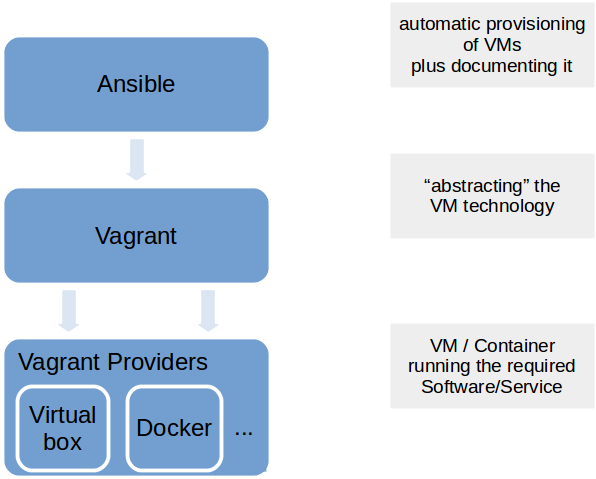
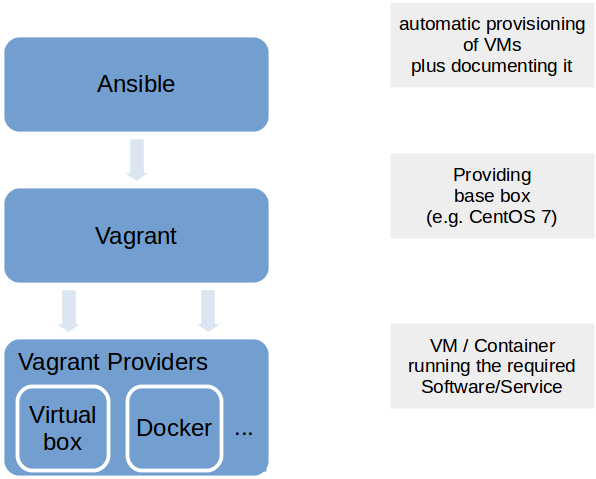
Added content

Changed region(s): [[0.6946, 0.3507, 0.9362, 0.4676]]

diff --git a/index.html b/index.html
@@ -4,7 +4,7 @@
 		<meta charset="utf-8">
 		<meta name="viewport" content="width=device-width, initial-scale=1.0, maximum-scale=1.0, user-scalable=no">
 
-		<title>reveal.js</title>
+		<title>AAT - Dev VMs</title>
 
 		<link rel="stylesheet" href="css/reveal.css">
 		<link rel="stylesheet" href="css/theme/league.css">
@@ -102,11 +102,193 @@
 					<section>
 						<h2>How does it work?</h2>
 						<ul>
-							<li>blabl</li>
+							<li>. . .</li>
 						</ul>
 					</section>
-				</section>							
-				
+				</section>
+				<section>
+					<section data-transition="fade-out">
+						<h2>Vagrantfile</h2>
+						<pre><code data-trim data-noescape>
+							Vagrant.configure(2) do |config|
+
+							  config.vm.box = "centos/7"
+
+							  config.vm.define "sibad.dev" do |srv|
+								srv.vm.hostname = "sibad.dev"
+								srv.vm.network "private_network", type: "dhcp"
+							  end
+
+							  config.vm.provision "ansible" do |ansible|
+								ansible.playbook = "dev.yml"
+							  end
+
+							end
+						</code></pre>
+					</section>
+					<section data-transition="fade-in fade-out">
+						<h2>Vagrantfile - box</h2>
+						<pre><code data-trim data-noescape>
+							Vagrant.configure(2) do |config|
+
+							 <mark>config.vm.box = "centos/7"</mark>
+
+							  config.vm.define "sibad.dev" do |srv|
+								srv.vm.hostname = "sibad.dev"
+								srv.vm.network "private_network", type: "dhcp"
+							  end
+
+							  config.vm.provision "ansible" do |ansible|
+								ansible.playbook = "dev.yml"
+							  end
+
+							end
+						</code></pre>
+					</section>
+					<section data-transition="fade-in fade-out">
+						<h2>Vagrantfile - Ansible provisioner</h2>
+						<pre><code data-trim data-noescape>
+							Vagrant.configure(2) do |config|
+
+							  config.vm.box = "centos/7"
+
+							  config.vm.define "sibad.dev" do |srv|
+								srv.vm.hostname = "sibad.dev"
+								srv.vm.network "private_network", type: "dhcp"
+							  end
+
+							  <mark>config.vm.provision "ansible" do |ansible|</mark>
+								<mark>ansible.playbook = "dev.yml"</mark>
+							  <mark>end</mark>
+
+							end
+						</code></pre>
+					</section>
+					<section data-transition="fade-in fade-out">
+						<h2>Vagrantfile - Port forward / RAM</h2>
+						<pre><code data-trim data-noescape>
+							Vagrant.configure(2) do |config|
+
+							  config.vm.box = "centos/7"
+							  config.ssh.insert_key = false
+							  config.vm.synced_folder ".", "/vagrant", disabled: true
+							  <mark>config.vm.network "forwarded_port", guest: 8080, host: 8080</mark>
+
+							  config.vm.provider :virtualbox do |v|
+								<mark>v.memory = 2048</mark>
+							  end
+
+							  . . .
+
+						</code></pre>
+					</section>
+				</section>
+
+				<section>
+					<section data-transition="fade-out">
+						<h2>Ansible - dev.yml</h2>
+						<pre><code data-trim data-noescape>
+							---
+
+							- hosts: dev_nodes
+							  become: true
+							  roles:
+							  - centos_gui
+							  - create_user
+						</code></pre>
+					</section>
+					<section data-transition="fade-in fade-out">
+						<h2>Ansible role "centos_gui"</h2>
+						<h3>tasks/main.yml</h3>
+						<pre><code data-trim data-noescape>
+							---
+							# install the necessary packages for a GUI
+
+							- name: Install x windows system
+							  yum:
+								name: "@X Window System"
+								state: present
+
+							- name: Install GNOME Shell classic mode
+							  yum:
+								name: gnome-classic-session
+								state: present
+						</code></pre>
+					</section>
+					<section data-transition="fade-in fade-out">
+						<h2>Ansible role "centos_gui"</h2>
+						<h3>handlers/main.yml</h3>
+						<pre><code data-trim data-noescape>
+							---
+							# handlers for restarting the VM
+
+							- name: Restart server
+							  shell: sleep 2 && shutdown -r now "Reboot by Ansible"
+							  async: 1
+							  poll: 0
+							  ignore_errors: true
+
+							- name: Wait for server to restart
+							  wait_for:
+								host={{ inventory_hostname }}
+								port=22
+								state=started
+								. . .
+						</code></pre>
+					</section>
+					<section data-transition="fade-in fade-out">
+						<h2>Ansible role "create_user"</h2>
+						<h3>tasks/main.yml</h3>
+						<pre><code data-trim data-noescape>
+							---
+							# tasks file for create_user
+
+							- name: add user
+							  user:
+								name: "{{ create_user_name }}"
+								group: vagrant
+								home: "/home/{{ create_user_name }}"
+								state: present
+							  register: newuser
+
+							- name: set password for user (only on creation)
+							  shell: "echo {{ create_user_password }}
+									| passwd --stdin {{ create_user_name }}"
+							  when: newuser.changed
+						</code></pre>
+					</section>
+				</section>
+
+				<section>
+					<section>
+						<h2>Create environment</h2>
+						<h3>vagrant up</h3>
+						<img src="images/vagrant-up.png"  width="1324">
+					</section>
+					<section>
+						<h2>Changes on environment</h2>
+						<h3>vagrant provision</h3>
+						<img src="images/vagrant-provision.png"  width="1124">
+					</section>
+					<section>
+						<h2>Dev environment - Login</h2>
+						<img src="images/vm-login.png"  width="1124">
+					</section>
+					<section>
+						<h2>Dev environment - Tools</h2>
+						<img src="images/vm-intellij.png"  width="1124">
+					</section>
+				</section>
+
+				<section>
+					<h1>Additional benefits</h1>
+					<ul>
+						<b>less download volume<br/><i>(and less disk space when not in use)</i>:<br/>14GB VM image vs. <mark>1.2GB</mark></li>
+						<li>less disk space when in use:<br/>15GB vs. <mark>7.5GB</mark></li>
+						<li>once downloaded Vagrant boxes are reused</li>
+					</ul>
+				</section>
+
 			</div>
 		</div>
 
@@ -123,8 +305,8 @@
 				
 				multiplex: {
 					// comment out one of the following depending of whether you are master or client
-					secret: null, // null so the clients do not have control of the master presentation
-					//secret: '15064933367289407201', // Obtained from the socket.io server. Gives this (the master) control of the presentation
+					//secret: null, // null so the clients do not have control of the master presentation
+					secret: '15064933367289407201', // Obtained from the socket.io server. Gives this (the master) control of the presentation
 					id: 'e64420e7cf322e48', // Obtained from socket.io server
 					url: 'https://reveal-js-multiplex-ccjbegmaii.now.sh' // Location of socket.io server
 				},
@@ -132,10 +314,10 @@
 				dependencies: [
 					{ src: '//cdn.socket.io/socket.io-1.3.5.js', async: true },
 					// comment out one of the following depending of whether you are master or client
-					{ src: 'plugin/multiplex/client.js', async: true },
-					//{ src: 'plugin/multiplex/master.js', async: true },
+					//{ src: 'plugin/multiplex/client.js', async: true },
+					{ src: 'plugin/multiplex/master.js', async: true },
 					// and if you want speaker notes
-					//{ src: 'plugin/notes-server/client.js', async: true },
+					{ src: 'plugin/notes-server/client.js', async: true },
 					
 					{ src: 'plugin/markdown/marked.js' },
 					{ src: 'plugin/markdown/markdown.js' },

diff --git a/css/theme/league.css b/css/theme/league.css
@@ -236,9 +236,10 @@ body {
  *********************************************/
 .reveal section img {
   margin: 15px 0px;
-  background: rgba(255, 255, 255, 0.12);
+/*  background: rgba(255, 255, 255, 0.12);
   border: 4px solid #eee;
-  box-shadow: 0 0 10px rgba(0, 0, 0, 0.15); }
+  box-shadow: 0 0 10px rgba(0, 0, 0, 0.15);*/
+  }
 
 .reveal section img.plain {
   border: 0;
@@ -296,3 +297,8 @@ body {
   -webkit-transition: width 800ms cubic-bezier(0.26, 0.86, 0.44, 0.985);
   -moz-transition: width 800ms cubic-bezier(0.26, 0.86, 0.44, 0.985);
   transition: width 800ms cubic-bezier(0.26, 0.86, 0.44, 0.985); }
+
+mark {
+  background-color: #aa2233;
+  color: antiquewhite;
+}
